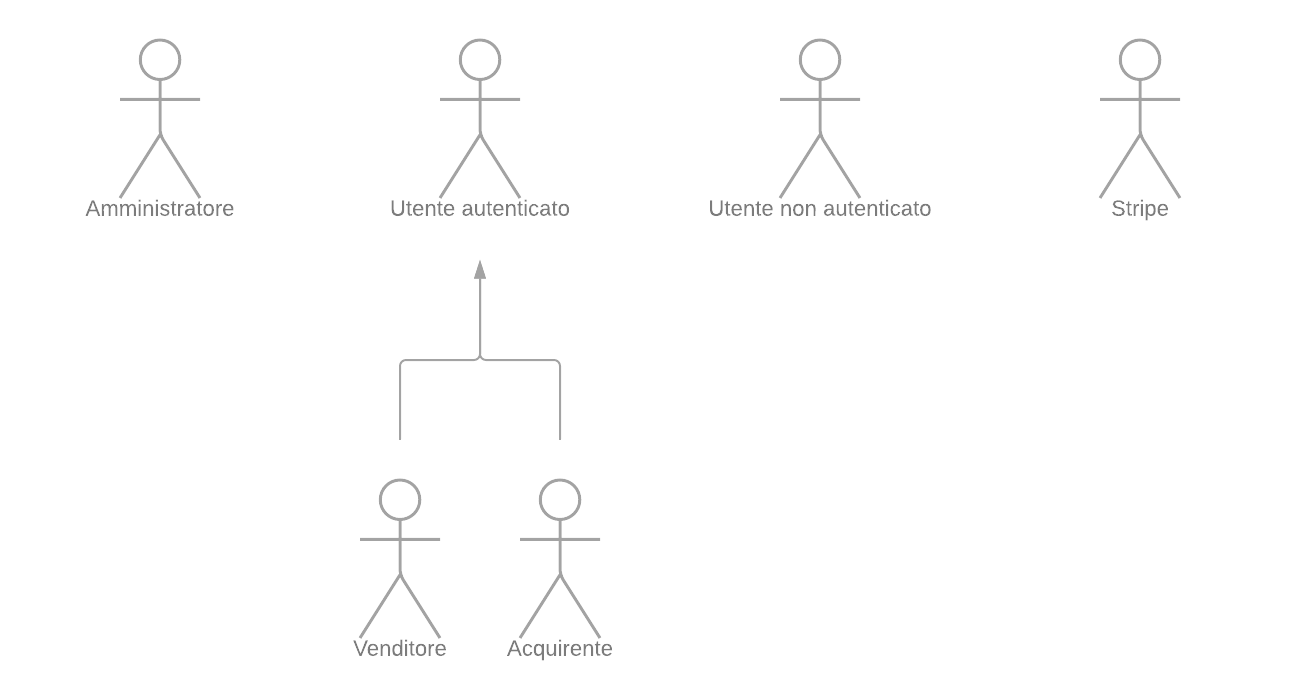
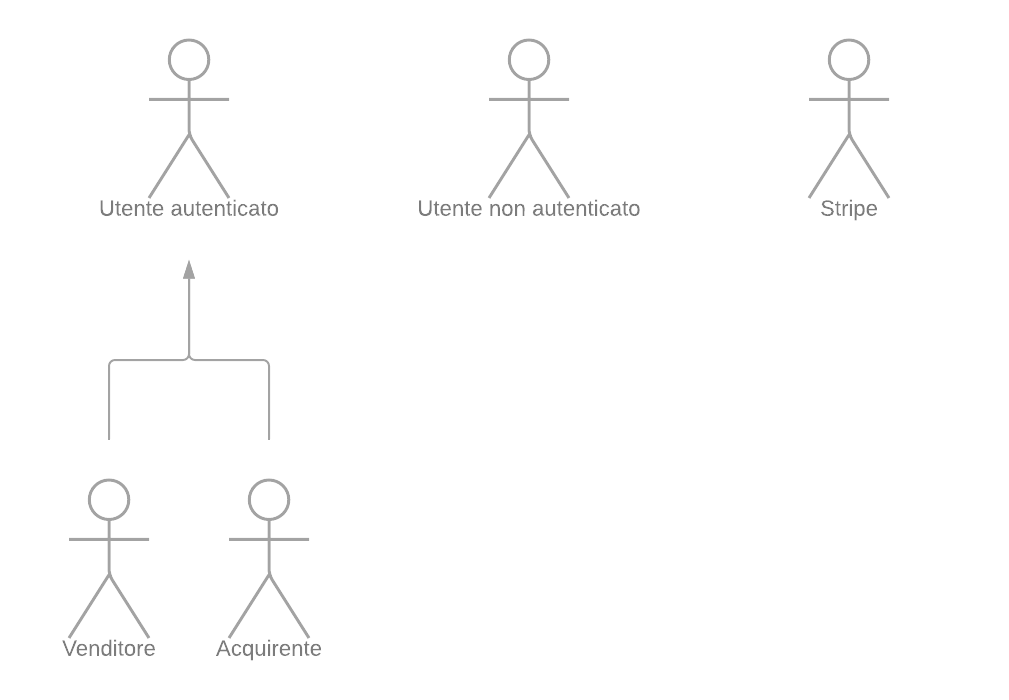
Close #67

diff --git a/DocumentiPubblici/AnalisiDeiRequisiti/Sezioni/CasiUso/Attori.tex b/DocumentiPubblici/AnalisiDeiRequisiti/Sezioni/CasiUso/Attori.tex
@@ -15,7 +15,7 @@
         \item \textbf{\glo{Acquirente}:} utente che può fare tutto ciò che fa l'utente non autenticato dopo aver effettuato la login o la registrazione. Può effettuare acquisti comprando i prodotti che ha nel carrello, consultare gli ordini che ha fatto, modificare il suo profilo e eseguire il logout.
         \item \textbf{Venditore:} utente che può aggiungere, modificare ed eliminare i prodotti dalla piattaforma, oltre a poter consultare gli ordini fatti dagli acquirenti.
     \end{itemize}
-    \item \textbf{Amministratore:} l'amministratore è in grado di fare il \glo{Deploy} dell'applicazione sul \glo{cloud}, configurare le integrazioni di componenti di terze parti nella piattaforma e gestire gli utenti di tipo venditore. Questo utente non fa parte di quelli autenticati perché non svolgerà le azioni all'interno della piattaforma ma dove questa è eseguita.
+    % \item \textbf{Amministratore:} l'amministratore è in grado di fare il \glo{Deploy} dell'applicazione sul \glo{cloud}, configurare le integrazioni di componenti di terze parti nella piattaforma e gestire gli utenti di tipo venditore. Questo utente non fa parte di quelli autenticati perché non svolgerà le azioni all'interno della piattaforma ma dove questa è eseguita.
 \end{itemize}
 \subsubsection{Attori Secondari}
 \begin{itemize}
